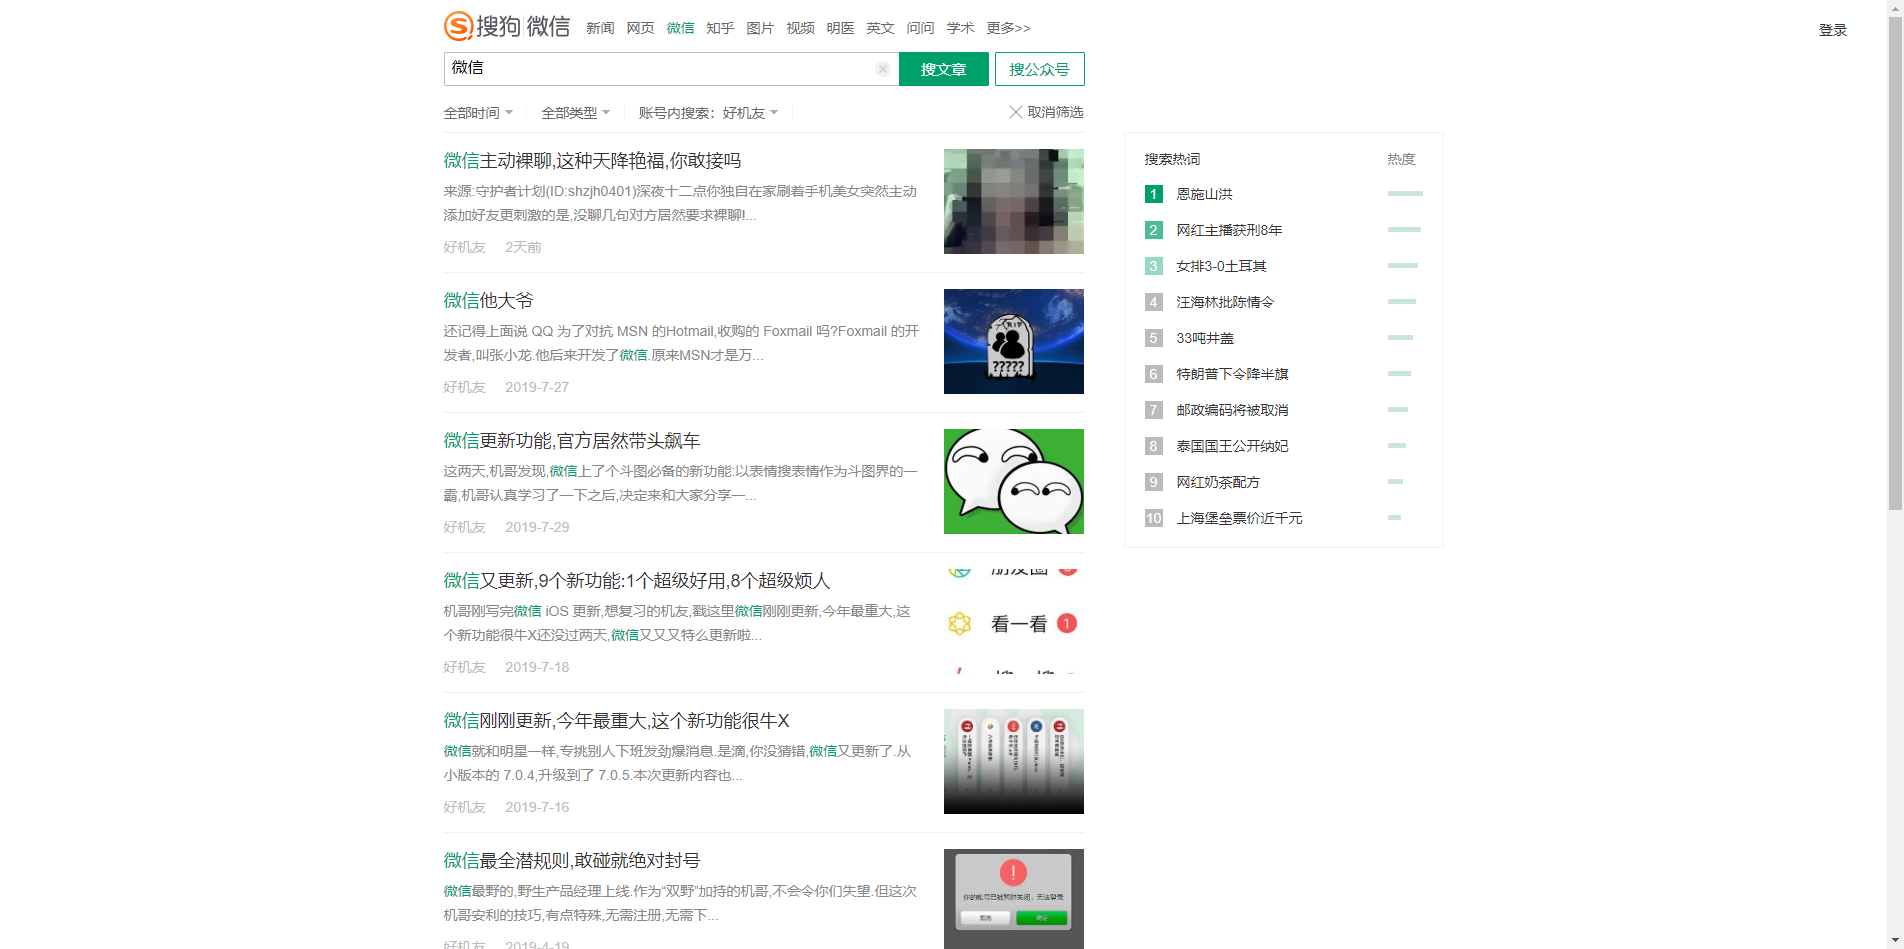
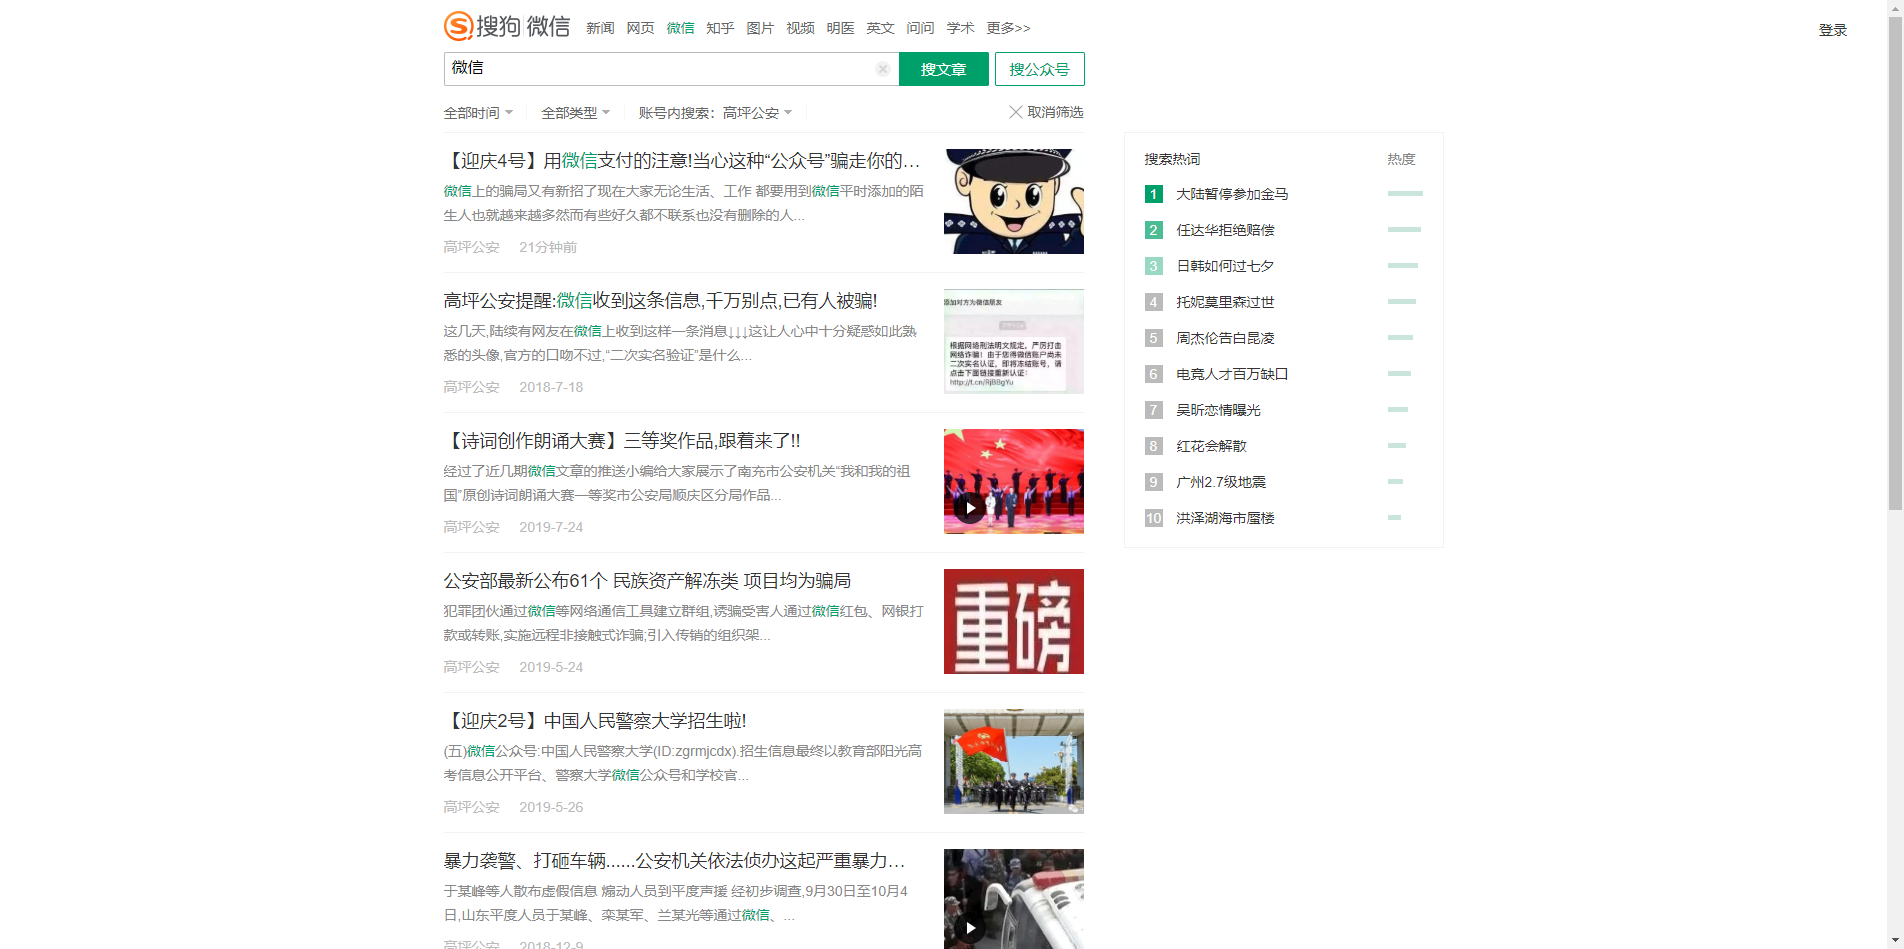
update

diff --git a/Test_Case/Test_Case_Search_Tools.py b/Test_Case/Test_Case_Search_Tools.py
@@ -7,14 +7,14 @@ import time
 import unittest
 import random
 from selenium import webdriver
-from dateutil.parser import parse
+# from dateutil.parser import parse
 from BeautifulReport import BeautifulReport
-from selenium.webdriver.chrome.options import Options
+# from selenium.webdriver.chrome.options import Options
+from selenium.common.exceptions import ElementNotVisibleException
 
 
 class Test(unittest.TestCase):
     img_path = "D:/test/Auto_Test/img"
-    # img_path = img.replace('\\', '/')
 
     def save_img(self, img_name):
         self.browser \
@@ -104,8 +104,9 @@ class Test(unittest.TestCase):
         u"""公众号内检索"""
         self.browser.find_element_by_xpath("//*[@id=\"query\"]").send_keys("微信")
         self.browser.find_element_by_xpath("//*[@id=\"searchForm\"]/div/input[3]").click()
+        # 获取页面数据总条数
         total = len(self.browser.find_elements_by_xpath("//*[@id=\"main\"]/div[4]/ul/descendant::li"))
-        # 获取当前页面全部的站点信息
+        # 获取当前页面全部的站点信息,放入public_address_list
         j = 0
         public_address_list = []
         while j < total:
@@ -113,26 +114,30 @@ class Test(unittest.TestCase):
                 append(self.browser.find_elements_by_xpath("//*[@id=\"main\"]/div[4]/ul/descendant::a")[2 + 5 * j].text)
             j += 1
         time.sleep(1)
+        # 展开搜索工具
+        self.browser.find_element_by_xpath("//*[@id=\"tool_show\"]/a").click()
+        time.sleep(1)
+        # 展开公众号输入框
+        self.browser.find_element_by_xpath("//*[@id=\"search\"]").click()
+        time.sleep(1)
         for i in range(0, 10):
-            k = random.randint(0, (len(public_address_list)-1))
-            self.browser.find_element_by_xpath("//*[@id=\"tool_show\"]/a").click()
-            time.sleep(1)
-            # 此处存在fp，不可循环
-            self.browser.find_element_by_xpath("//*[@id=\"search\"]").click()
-            time.sleep(1)
-            self.browser.find_element_by_xpath("//*[@id=\"tool\"]/span[5]/div/form/span/input"). \
-                send_keys(public_address_list[k])
-            time.sleep(1)
-            # 模拟键盘回车
-            # self.browser.find_element_by_xpath("//*[@id=\"tool\"]/span[5]/div/form/span/input").\
-            #     send_keys(self.Keys.ENTER)
-            # 点击检索按钮
-            self.browser.find_element_by_xpath("//*[@id=\"search_enter\"]").click()
-            time.sleep(3)
-            self.save_img('公众号内检索')
-            # 取消筛选
-            self.browser.find_element_by_xpath("//*[@id=\"tool_clear\"]/a").click()
-            time.sleep(3)
+            try:
+                k = random.randint(0, (len(public_address_list)-1))
+                # 输入public_address_list内的公众号信息
+                self.browser.find_element_by_xpath("//*[@id=\"tool\"]/span[5]/div/form/span/input"). \
+                    send_keys(public_address_list[k])
+                time.sleep(1)
+                # 点击检索按钮
+                self.browser.find_element_by_xpath("//*[@id=\"search_enter\"]").click()
+                time.sleep(3)
+                self.save_img('公众号内检索')
+                # 清除输入信息
+                self.browser.find_element_by_xpath("//*[@id=\"search\"]").click()
+                search_tool = self.browser.find_element_by_xpath("//*[@id=\"tool\"]/span[5]/div/form/span/input")
+                search_tool.clear()
+            except ElementNotVisibleException:
+                print(self.browser.find_element_by_xpath("//*[@id=\"tool\"]/span[5]/div/form/p").text)
+                continue
 
 
 if __name__ == '__main__':

diff --git a/Test_Case/Test_Case_WeChat_Search.py b/Test_Case/Test_Case_WeChat_Search.py
@@ -94,13 +94,9 @@ class Test(unittest.TestCase):
             # 属下子节点的全部a标签
             self.browser.find_elements_by_xpath("//*[@id=\"topwords\"]/descendant::a")[j].click()
             self.save_img('点击top榜单话题随机检索')
-            # 切换页面句柄
-            handles = self.browser.window_handles
-            self.browser.switch_to.window(handles[1])
-            time.sleep(3)
-            self.browser.close()
-            handles = self.browser.window_handles
-            self.browser.switch_to.window(handles[0])
+            # 关闭页面
+            page_close = BasePage(self.browser)
+            page_close.close_page()
 
     @BeautifulReport.add_test_img('切换tab检索', '切换更多tab检索')
     def test_tab_select_search(self):
